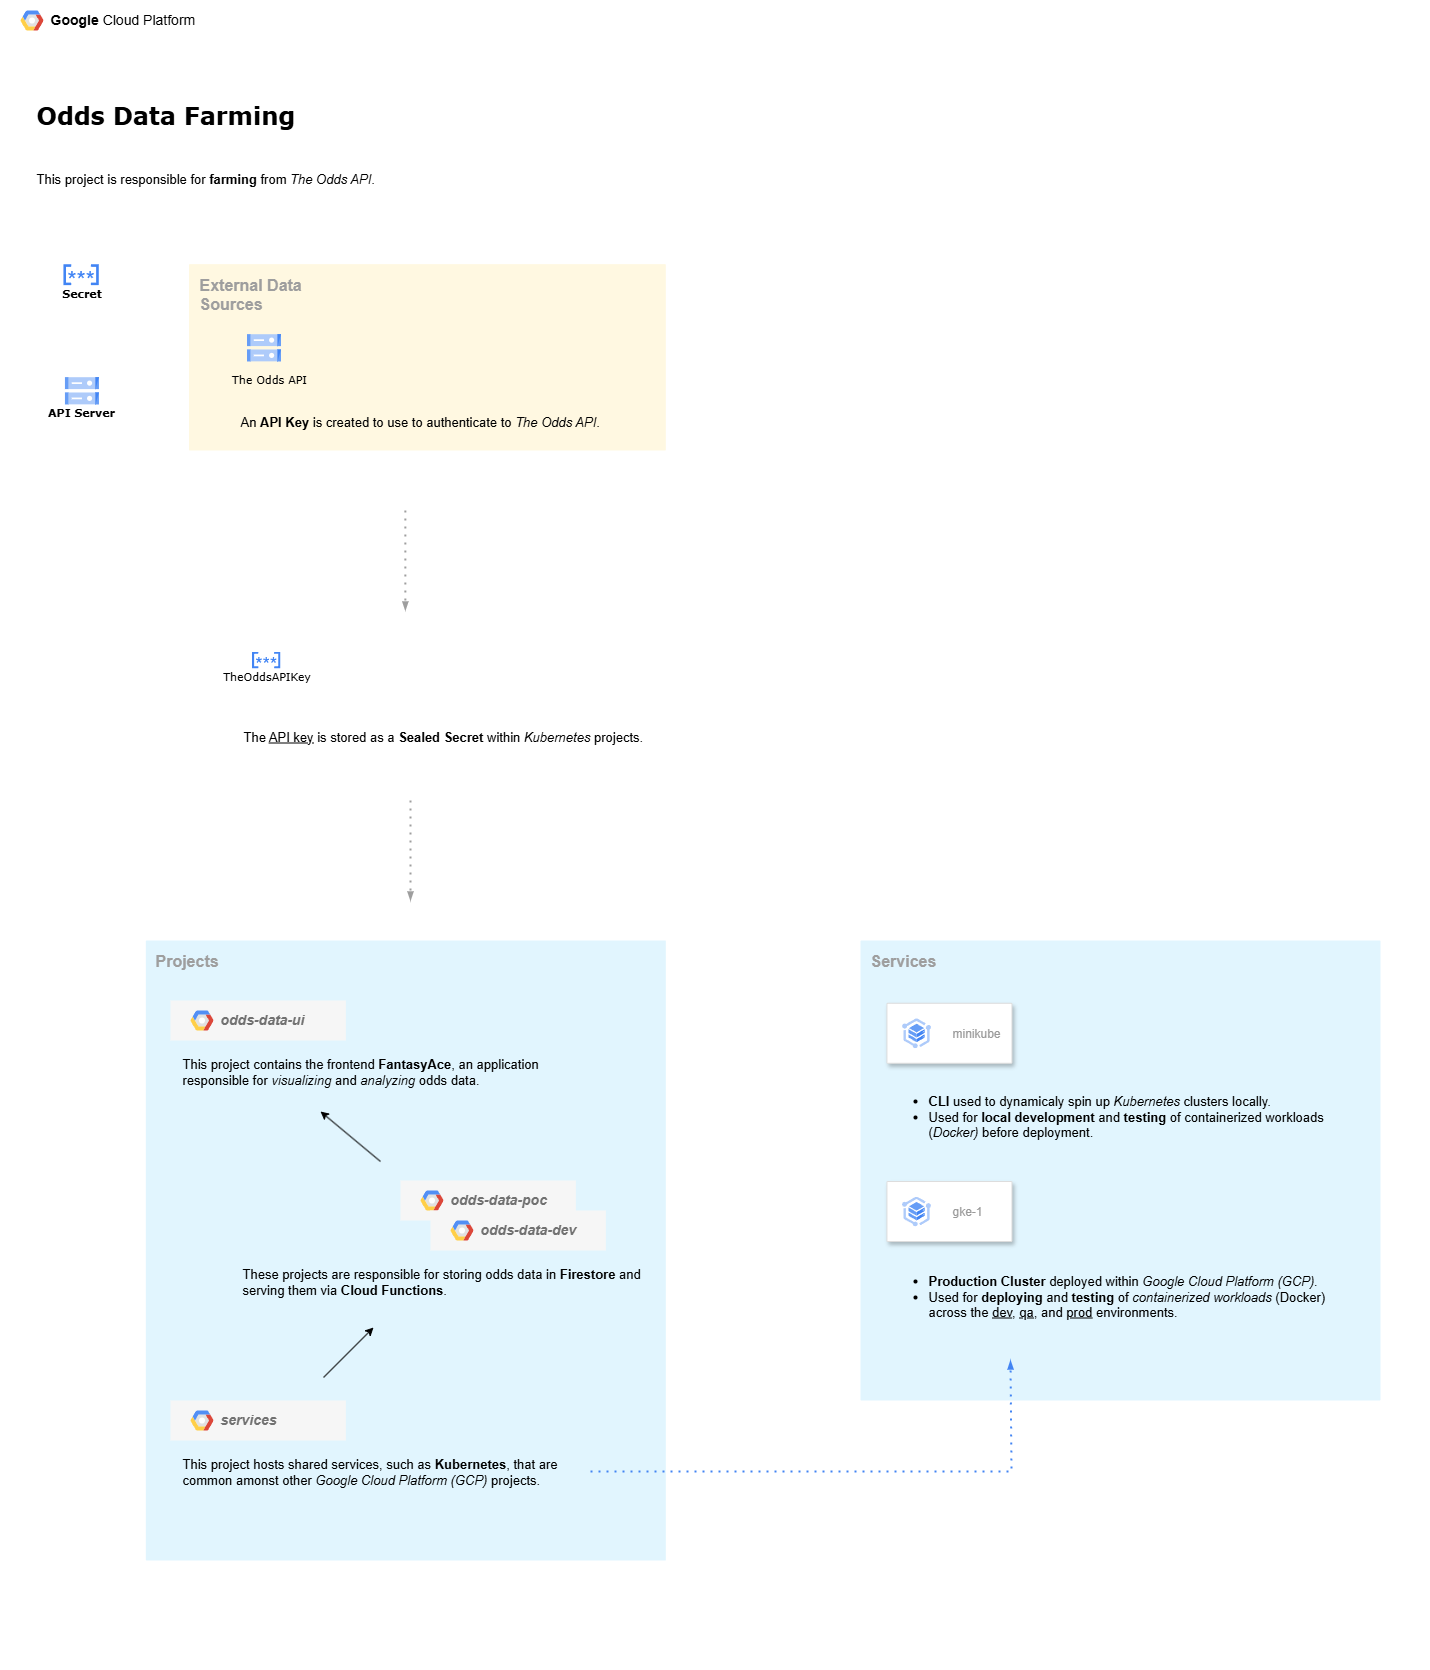
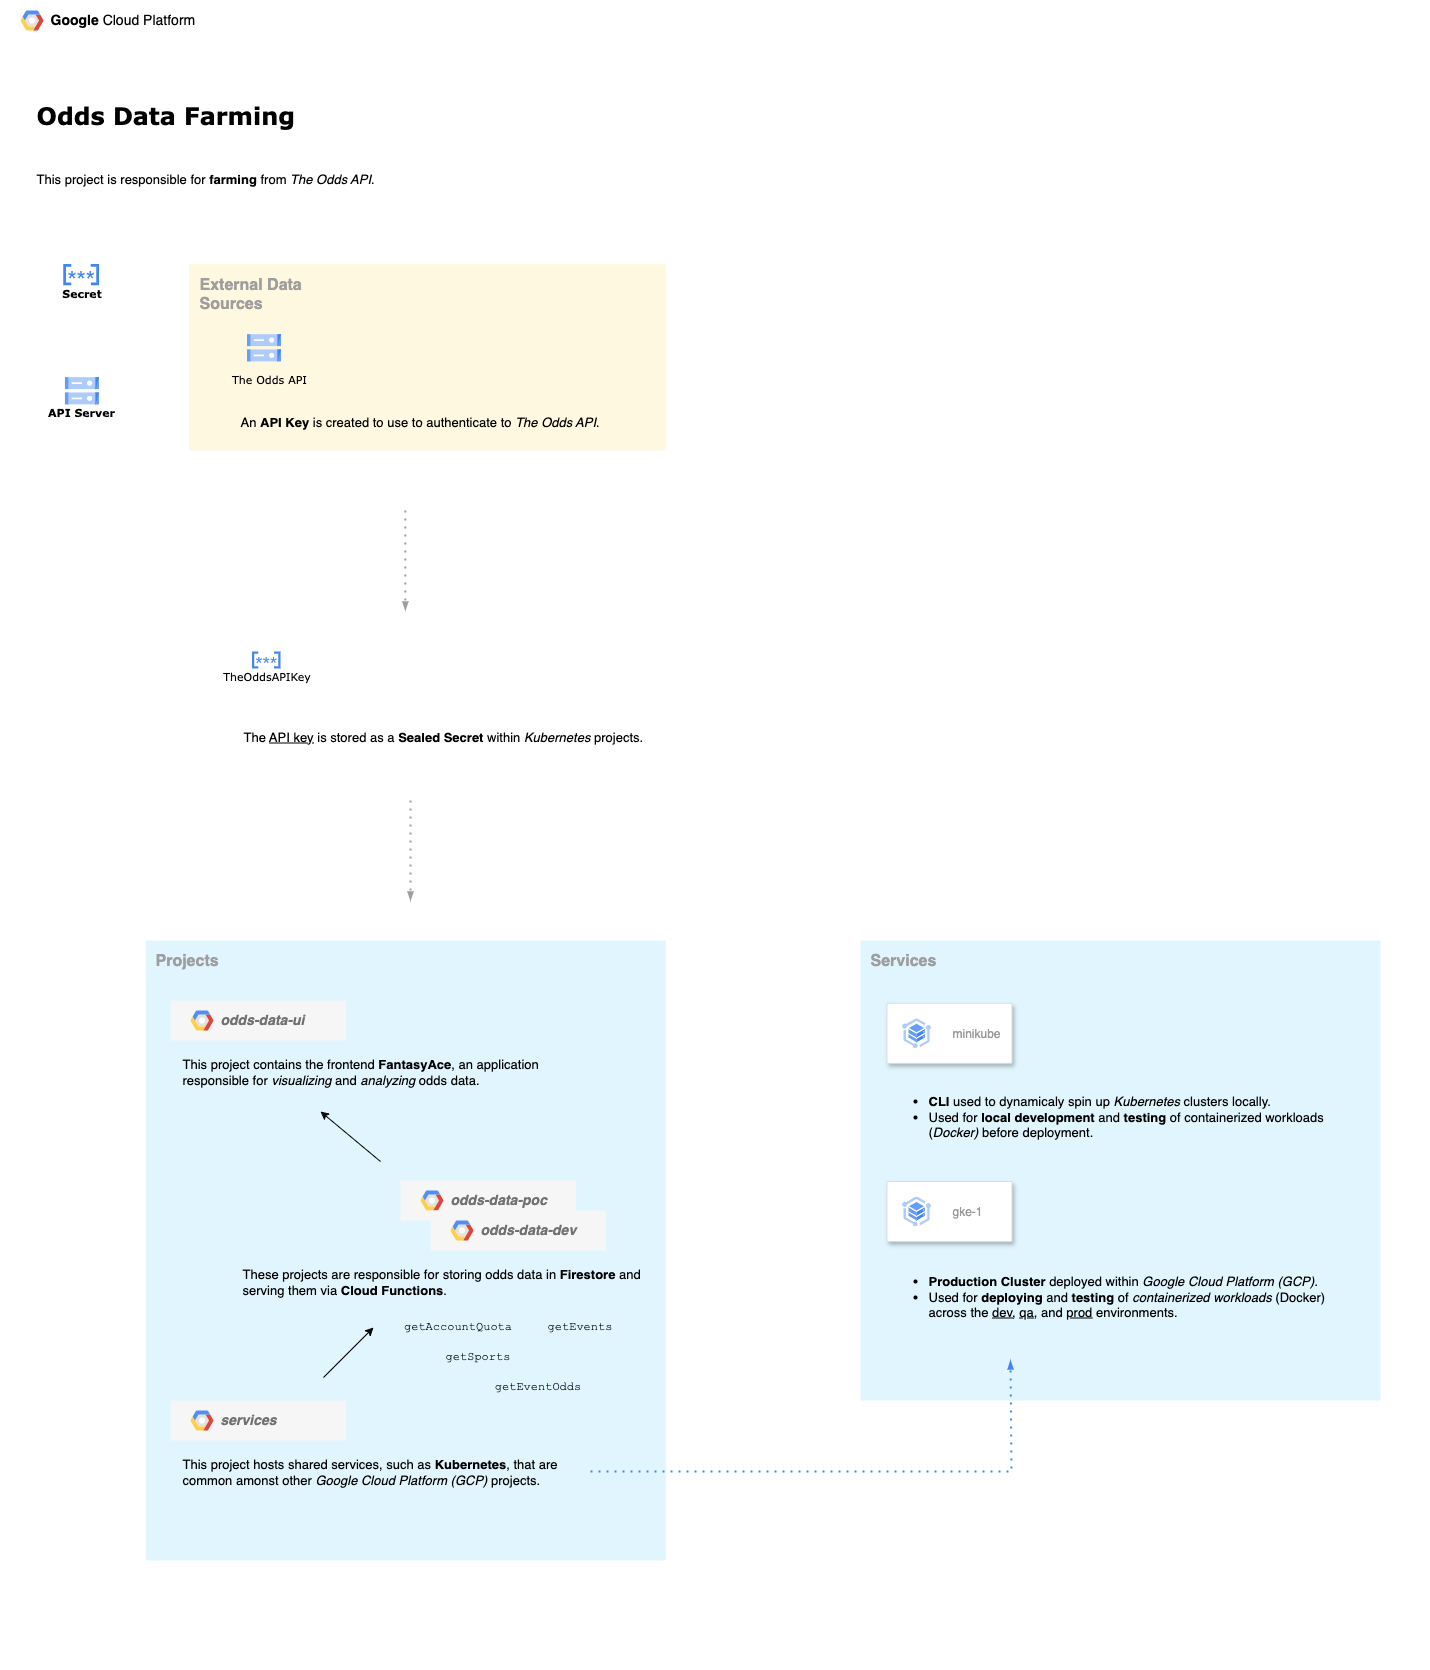
Updated project diagram to include the Cloud Functions

diff --git a/scripts/api/eventOdds.js b/scripts/api/eventOdds.js
@@ -42,6 +42,12 @@ export function getEventOdds(sportKey, eventId, oddsFormat) {
   // eslint-disable-next-line no-undef
   const markets = process.env.MARKETS.replace(/"/g, ""); // Remove quotes if present
 
+  if (!markets) {
+    throw new Error(
+      "Markets are missing. Please set MARKETS in your .env file.",
+    );
+  }
+
   // iso | unix
   const dateFormat = "iso";
 
